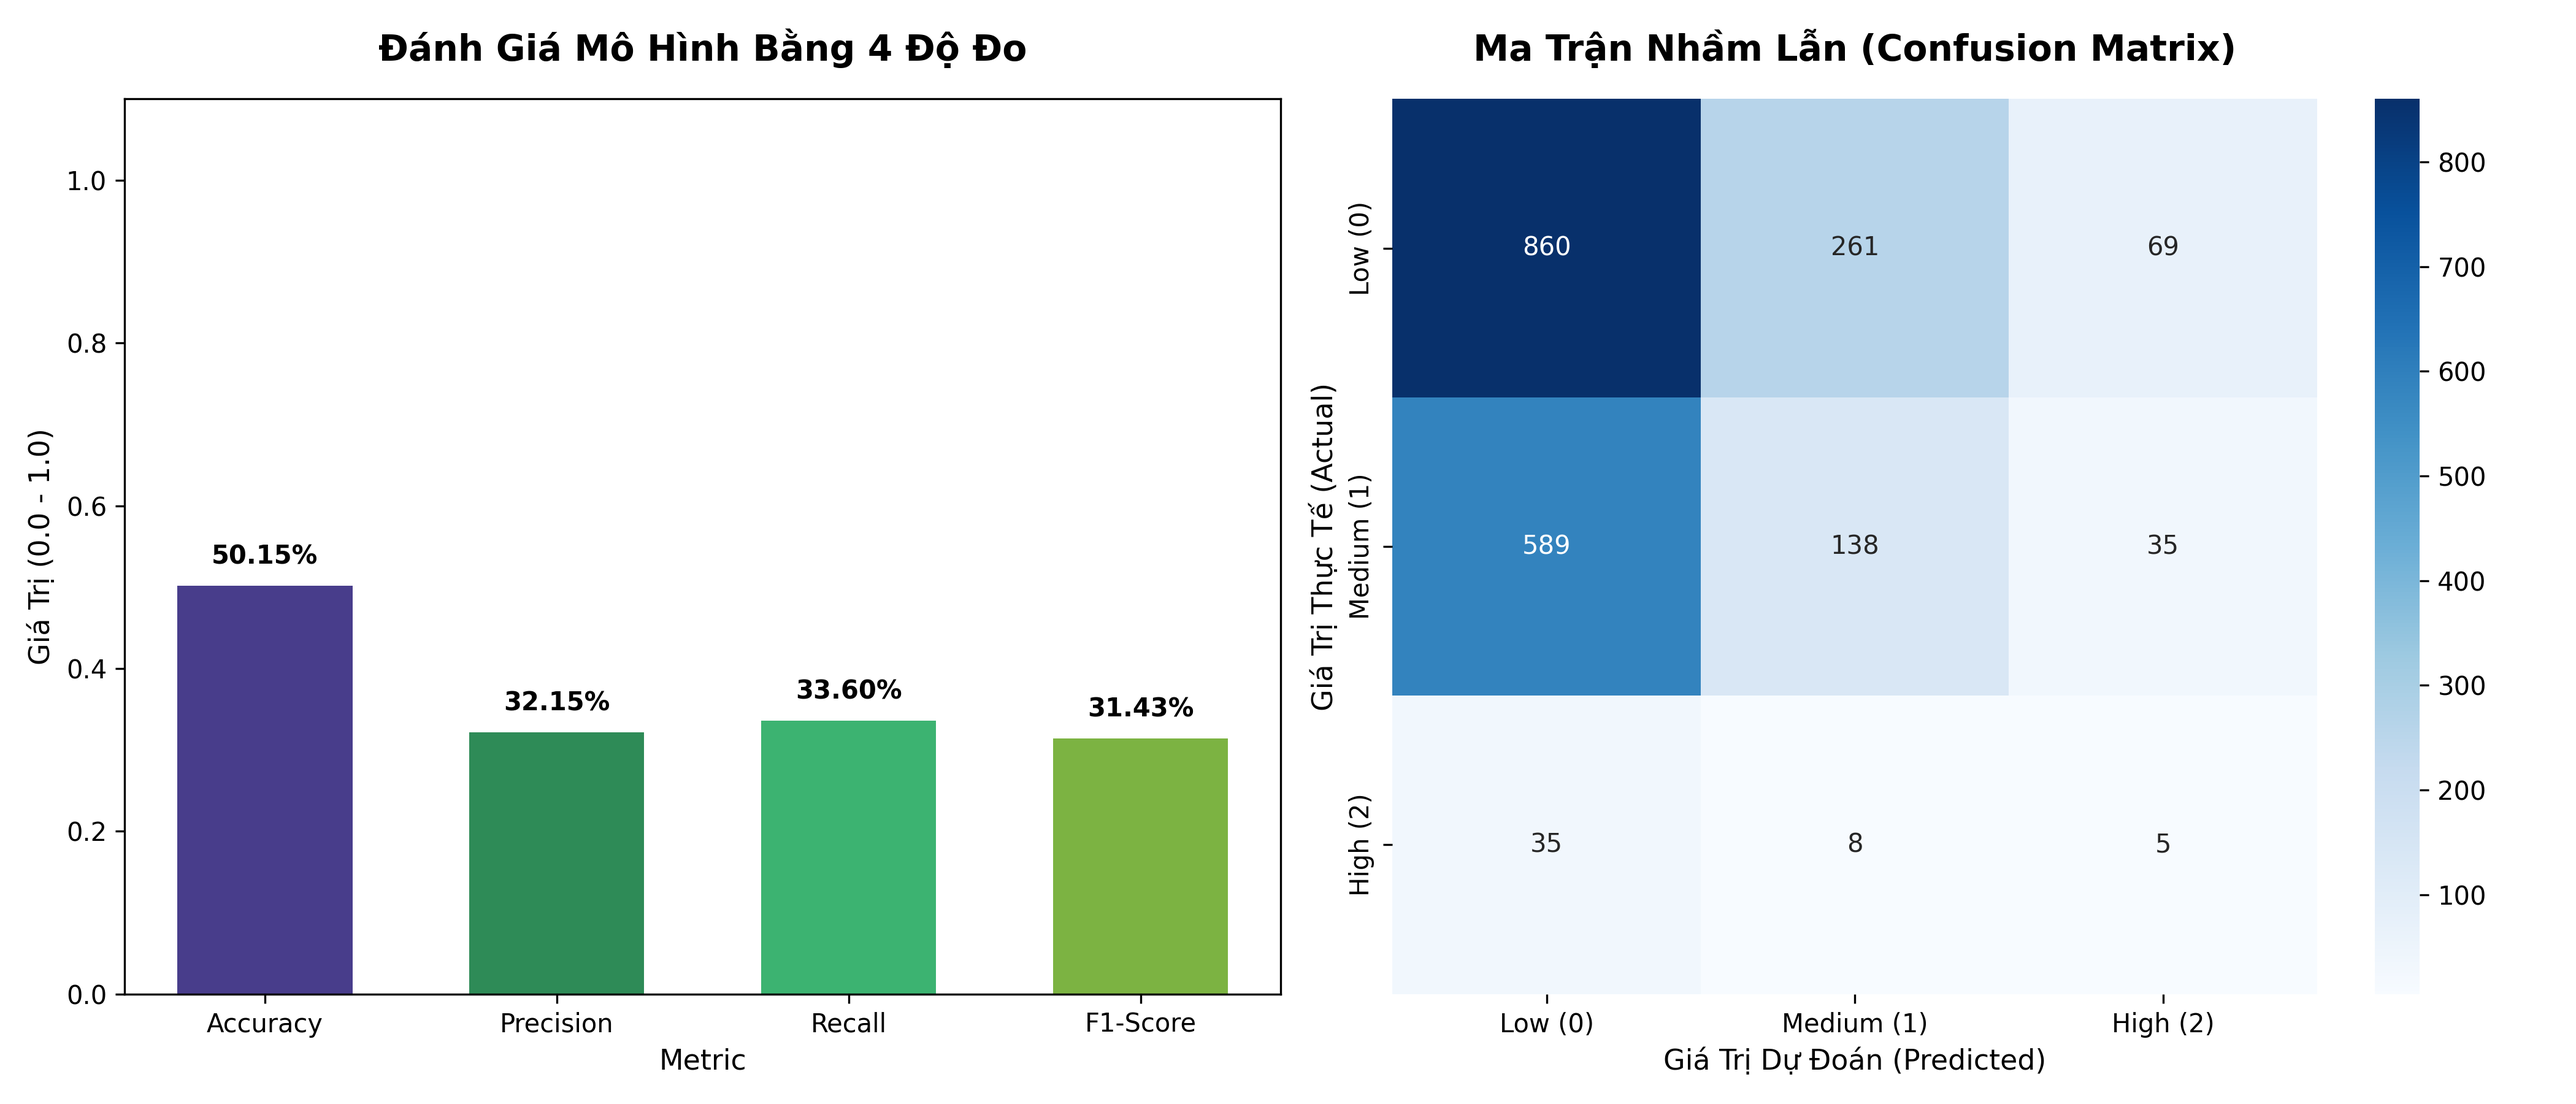
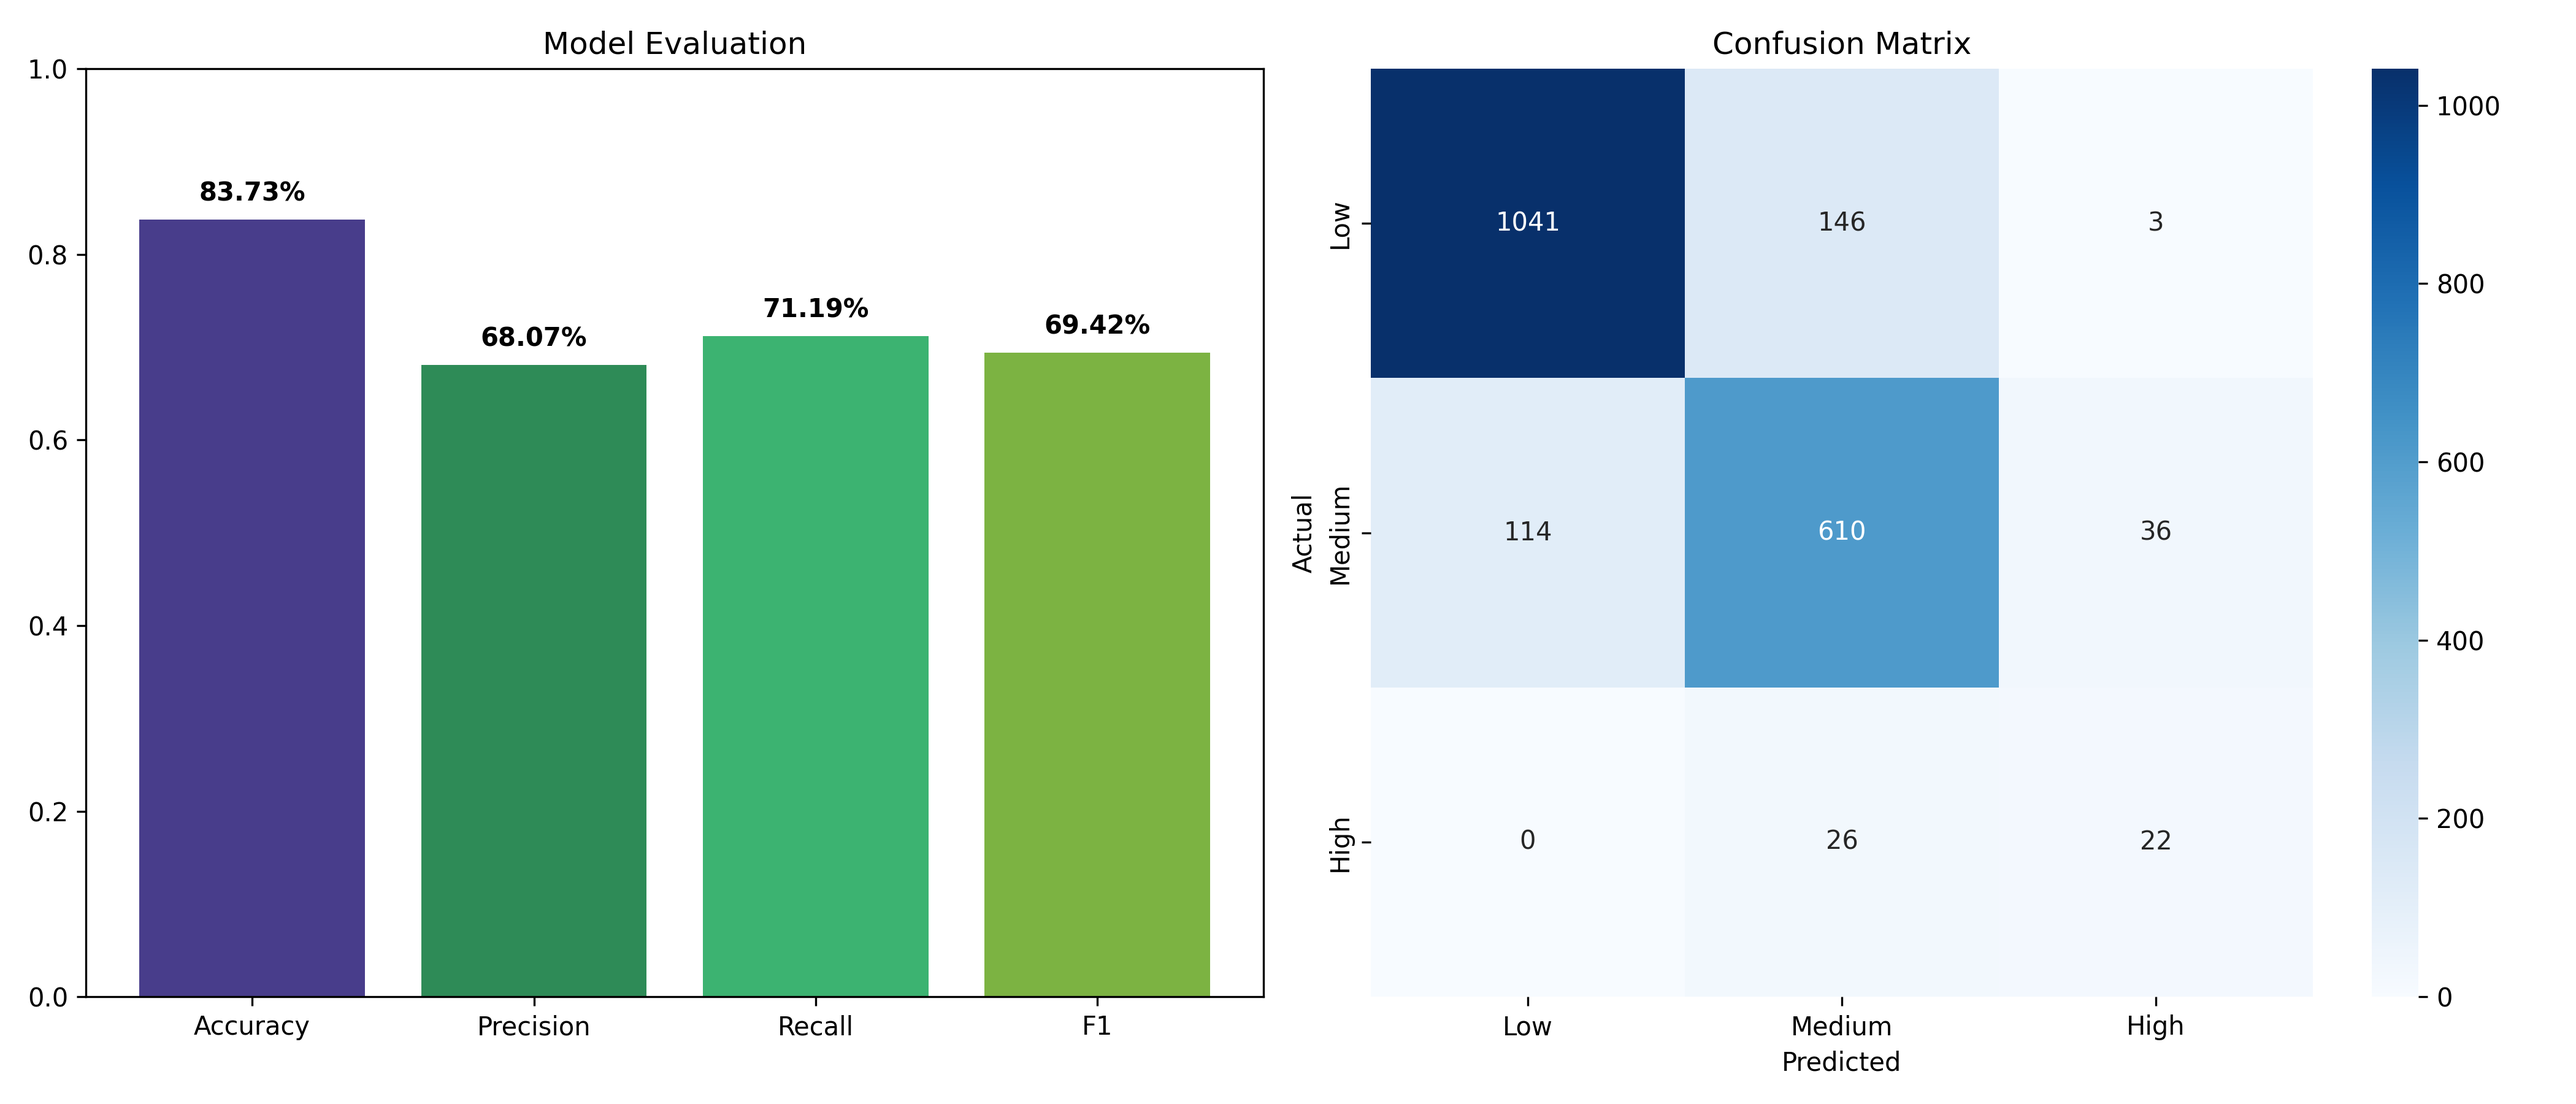
Fix mo hinh lstm

diff --git a/train_lstm.py b/train_lstm.py
@@ -1,47 +1,60 @@
-import os
+import random
 import numpy as np
 import matplotlib.pyplot as plt
 import seaborn as sns
-
 import tensorflow as tf
+
 from tensorflow.keras.models import Sequential
-from tensorflow.keras.layers import Dense, LSTM, Dropout, BatchNormalization
+from tensorflow.keras.layers import LSTM, Dense, Dropout, BatchNormalization
 from tensorflow.keras.utils import to_categorical
 from tensorflow.keras.callbacks import EarlyStopping, ModelCheckpoint
-
+from sklearn.model_selection import train_test_split
 from sklearn.utils.class_weight import compute_class_weight
 from sklearn.metrics import (accuracy_score,precision_score,recall_score,f1_score,classification_report,confusion_matrix)
 
-# Đọc dữ liệu dạng chuỗi 3D
+# RANDOM SEED
+SEED = 42
+random.seed(SEED)
+np.random.seed(SEED)
+tf.random.set_seed(SEED)
+
 data = np.load("data_sequence_for_lstm.npz")
 X_train = data["x_train"]
 X_test = data["x_test"]
+
 y_train = data["y_train"]
 y_test = data["y_test"]
 
-print(f"X_train Shape: {X_train.shape}")
-print(f"X_test Shape : {X_test.shape}")
+# TÁCH VALIDATION TỪ TRAIN
+X_train, X_val, y_train, y_val = train_test_split(
+    X_train,
+    y_train,
+    test_size=0.2,
+    random_state=SEED,
+    stratify=y_train
+)
+print("\nSau khi chia Validation")
+print("Train      :", X_train.shape)
+print("Validation :", X_val.shape)
+print("Test       :", X_test.shape)
 
-# Mã hóa nhãn Target sang dạng One-Hot Encoding cho Multi-class Classification
+
+#  Mã hóa nhãn Target sang dạng ONE HOT ENCODING
 num_classes = len(np.unique(y_train))
-y_train_cat = to_categorical(y_train, num_classes=num_classes)
-y_test_cat = to_categorical(y_test, num_classes=num_classes)
 
+y_train_cat = to_categorical(y_train, num_classes)
+y_val_cat = to_categorical(y_val, num_classes)
+y_test_cat = to_categorical(y_test, num_classes)
+
+# thông tin input
 time_steps = X_train.shape[1]
 num_features = X_train.shape[2]
 
-# Xây dựng kiến trúc mô hình LSTM
+# xây dựng mô hình
 model = Sequential([
-    LSTM(64, input_shape=(time_steps, num_features), return_sequences=True),
-    BatchNormalization(),
-    Dropout(0.3),
-
-    LSTM(32, return_sequences=False),
-    BatchNormalization(),
-    Dropout(0.3),
-
-    Dense(32, activation="relu"),
+    LSTM(32, input_shape=(time_steps, num_features), return_sequences=False),
     Dropout(0.2),
+    Dense(16, activation="relu"),
     Dense(num_classes, activation="softmax")
 ])
 
@@ -51,19 +64,22 @@ model.compile(
     metrics=["accuracy"]
 )
 
-print("TÓM TẮT KIẾN TRÚC MÔ HÌNH LSTM")
+print("KIẾN TRÚC MÔ HÌNH")
 model.summary()
 
-# Tính toán Trọng số Lớp (Class Weights) xử lý mất cân bằng
-class_weights = compute_class_weight(
+
+#tính trọng số lớp CLASS WEIGHT xử lý mất cân bằng
+weights = compute_class_weight(
     class_weight="balanced",
     classes=np.unique(y_train),
     y=y_train
 )
-class_weight_dict = dict(enumerate(class_weights))
-print("\nTrọng số lớp (Class Weights):", class_weight_dict)
 
-# Cấu hình Callbacks (EarlyStopping & ModelCheckpoint)
+class_weight = dict(enumerate(weights))
+print("\nClass Weight")
+print(class_weight)
+
+# 8. CALLBACKS
 callbacks = [
     EarlyStopping(
         monitor="val_loss",
@@ -72,86 +88,75 @@ callbacks = [
         verbose=1
     ),
     ModelCheckpoint(
-        filepath="model_lstm.keras",
+        "model_lstm.keras",
         monitor="val_loss",
         save_best_only=True,
         verbose=1
     )
 ]
 
-# Huấn luyện mô hình
-EPOCHS = 60
-BATCH_SIZE = 32
-
+# huấn luyện mô hình train
 history = model.fit(
-    X_train, y_train_cat,
-    epochs=EPOCHS,
-    batch_size=BATCH_SIZE,
-    validation_data=(X_test, y_test_cat),
+    X_train,
+    y_train_cat,
+    validation_data=(X_val, y_val_cat),
+    epochs=60,
+    batch_size=32,
     callbacks=callbacks,
-    class_weight=class_weight_dict,
+    class_weight=class_weight,
     verbose=1
 )
 
-# Dự đoán và Tính toán các độ đo Đánh giá
+# dự đoán và tính toán các độ đo đánh giá
 y_pred_prob = model.predict(X_test)
 y_pred = np.argmax(y_pred_prob, axis=1)
 
-# Tính toán các chỉ số Accuracy, Precision, Recall, F1-Score
+# tính toán các chỉ số
 acc = accuracy_score(y_test, y_pred)
-prec_macro = precision_score(y_test, y_pred, average="macro")
-rec_macro = recall_score(y_test, y_pred, average="macro")
-f1_macro = f1_score(y_test, y_pred, average="macro")
+precision = precision_score(y_test,y_pred,average="macro")
+recall = recall_score(y_test,y_pred,average="macro")
+f1 = f1_score(y_test,y_pred,average="macro")
 
-target_names = ["Low (0)", "Medium (1)", "High (2)"]
+print("KẾT QUẢ ĐÁNH GIÁ MÔ HÌNH")
+print(f"Accuracy : {acc:.4f}")
+print(f"Precision: {precision:.4f}")
+print(f"Recall   : {recall:.4f}")
+print(f"F1 Score : {f1:.4f}")
+print("\nClassification Report\n")
+print(classification_report(y_test,y_pred,target_names=["Low","Medium","High"]))
 
-print("KẾT QUẢ ĐÁNH GIÁ MÔ HÌNH LSTM")
-print(f"Accuracy Score           : {acc:.4f}")
-print(f"Precision (Macro Average): {prec_macro:.4f}")
-print(f"Recall (Macro Average)   : {rec_macro:.4f}")
-print(f"F1-Score (Macro Average) : {f1_macro:.4f}")
-print("\nBẢNG BÁO CÁO CHI TIẾT (CLASSIFICATION REPORT):")
-print(classification_report(y_test, y_pred, target_names=["Low", "Medium", "High"]))
-
-fig, axes = plt.subplots(1, 2, figsize=(14, 6))
-
-# Cột 4 Độ đo
-metrics = ["Accuracy", "Precision", "Recall", "F1-Score"]
-values = [acc, prec_macro, rec_macro, f1_macro]
-colors = ["#483D8B", "#2E8B57", "#3CB371", "#7CB342"]
-
-bars = axes[0].bar(metrics, values, color=colors, width=0.6)
-axes[0].set_title("Đánh Giá Mô Hình Bằng 4 Độ Đo", fontsize=14, fontweight="bold", pad=15)
-axes[0].set_ylabel("Giá Trị (0.0 - 1.0)", fontsize=11)
-axes[0].set_xlabel("Metric", fontsize=11)
-axes[0].set_ylim(0, 1.1)
-
+# vẽ hình
+fig, axes = plt.subplots(1,2,figsize=(14,6))
+metrics = ["Accuracy","Precision","Recall","F1"]
+values = [acc,precision,recall,f1]
+colors = ["#483D8B","#2E8B57","#3CB371","#7CB342"]
+bars = axes[0].bar(metrics,values,color=colors)
+axes[0].set_ylim(0,1)
+axes[0].set_title("Model Evaluation")
 for bar in bars:
-    height = bar.get_height()
+    h = bar.get_height()
     axes[0].text(
-        bar.get_x() + bar.get_width() / 2.0,
-        height + 0.02,
-        f"{height * 100:.2f}%",
+        bar.get_x()+bar.get_width()/2,
+        h+0.02,
+        f"{h*100:.2f}%",
         ha="center",
-        va="bottom",
-        fontsize=10,
         fontweight="bold"
     )
-
-# Ma trận nhầm lẫn 
-cm = confusion_matrix(y_test, y_pred)
+cm = confusion_matrix(y_test,y_pred)
 sns.heatmap(
     cm,
     annot=True,
     fmt="d",
     cmap="Blues",
-    ax=axes[1],
-    xticklabels=target_names,
-    yticklabels=target_names
+    xticklabels=["Low","Medium","High"],
+    yticklabels=["Low","Medium","High"],
+    ax=axes[1]
 )
-axes[1].set_title("Ma Trận Nhầm Lẫn (Confusion Matrix)", fontsize=14, fontweight="bold", pad=15)
-axes[1].set_xlabel("Giá Trị Dự Đoán (Predicted)", fontsize=11)
-axes[1].set_ylabel("Giá Trị Thực Tế (Actual)", fontsize=11)
-
+axes[1].set_title("Confusion Matrix")
+axes[1].set_xlabel("Predicted")
+axes[1].set_ylabel("Actual")
 plt.tight_layout()
-plt.savefig("evaluation_results_lstm.png", dpi=300)
+plt.savefig(
+    "evaluation_results_lstm.png",
+    dpi=300
+)

diff --git a/prepare_sequence_for_lstm.py b/prepare_sequence_for_lstm.py
@@ -21,13 +21,22 @@ def create_advanced_features(data):
 
 df_fe = create_advanced_features(df)
 
-#Tách X và y
-X = df_fe.drop(columns=["Target"]).values
-y = df_fe["Target"].values
+#chia dữ liệu tĩnh ban đầu 2D theo tỷ lệ 80-20
+train_size_raw = int(len(df_fe) * 0.8)
+train_df = df_fe.iloc[:train_size_raw]
+test_df = df_fe.iloc[train_size_raw:]
+
+# Tách X và y cho từng tập riêng biệt
+X_train_raw = train_df.drop(columns=["Target"]).values
+y_train_raw = train_df["Target"].values
+
+X_test_raw = test_df.drop(columns=["Target"]).values
+y_test_raw = test_df["Target"].values
 
 #Chuẩn hóa dữ liệu
 scaler = StandardScaler()
-X_scaled = scaler.fit_transform(X)
+X_train_scaled = scaler.fit_transform(X_train_raw)
+X_test_scaled = scaler.transform(X_test_raw)
 joblib.dump(
     scaler,
     "scaler_lstm.pkl"
@@ -36,34 +45,16 @@ joblib.dump(
 #Sliding Window
 TIME_STEPS = 3
 def create_sequences(X_data, y_data, time_steps):
-    
     X_seq = []
     y_seq = []
-
-    for i in range(len(X_data) - time_steps):
-
+    for i in range(len(X_data) - time_steps+1):
         X_seq.append(X_data[i:i + time_steps])
-
-        y_seq.append(y_data[i + time_steps])
-
+        y_seq.append(y_data[i + time_steps-1])
     return np.array(X_seq), np.array(y_seq)
 
-
-X_seq, y_seq = create_sequences(
-    X_scaled,
-    y,
-    TIME_STEPS
-)
-
-#Train/Test Split theo thứ tự
-
-train_size = int(len(X_seq) * 0.8)
-
-X_train = X_seq[:train_size]
-X_test = X_seq[train_size:]
-
-y_train = y_seq[:train_size]
-y_test = y_seq[train_size:]
+# 6. TẠO SLIDING WINDOW 3D ĐỘC LẬP CHO TỪNG TẬP
+X_train, y_train = create_sequences(X_train_scaled, y_train_raw, TIME_STEPS)
+X_test, y_test = create_sequences(X_test_scaled, y_test_raw, TIME_STEPS)
 
 #Lưu dữ liệu
 np.savez(
